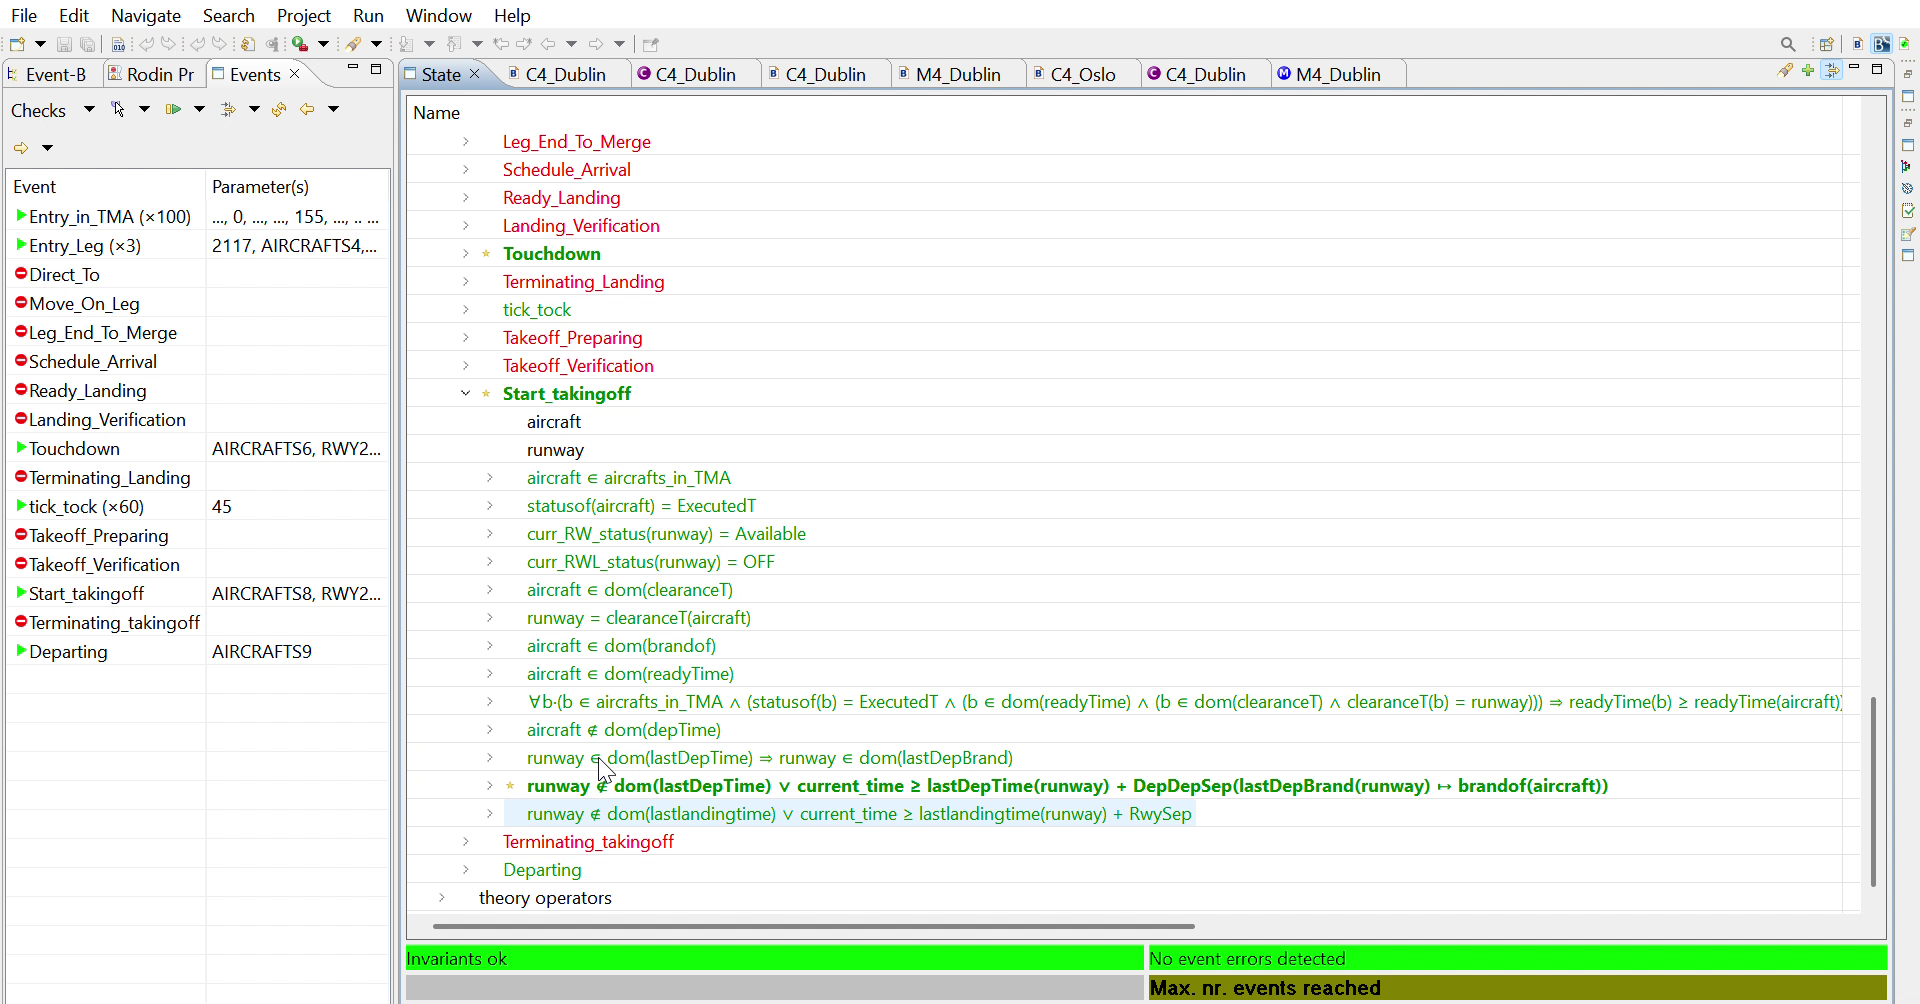
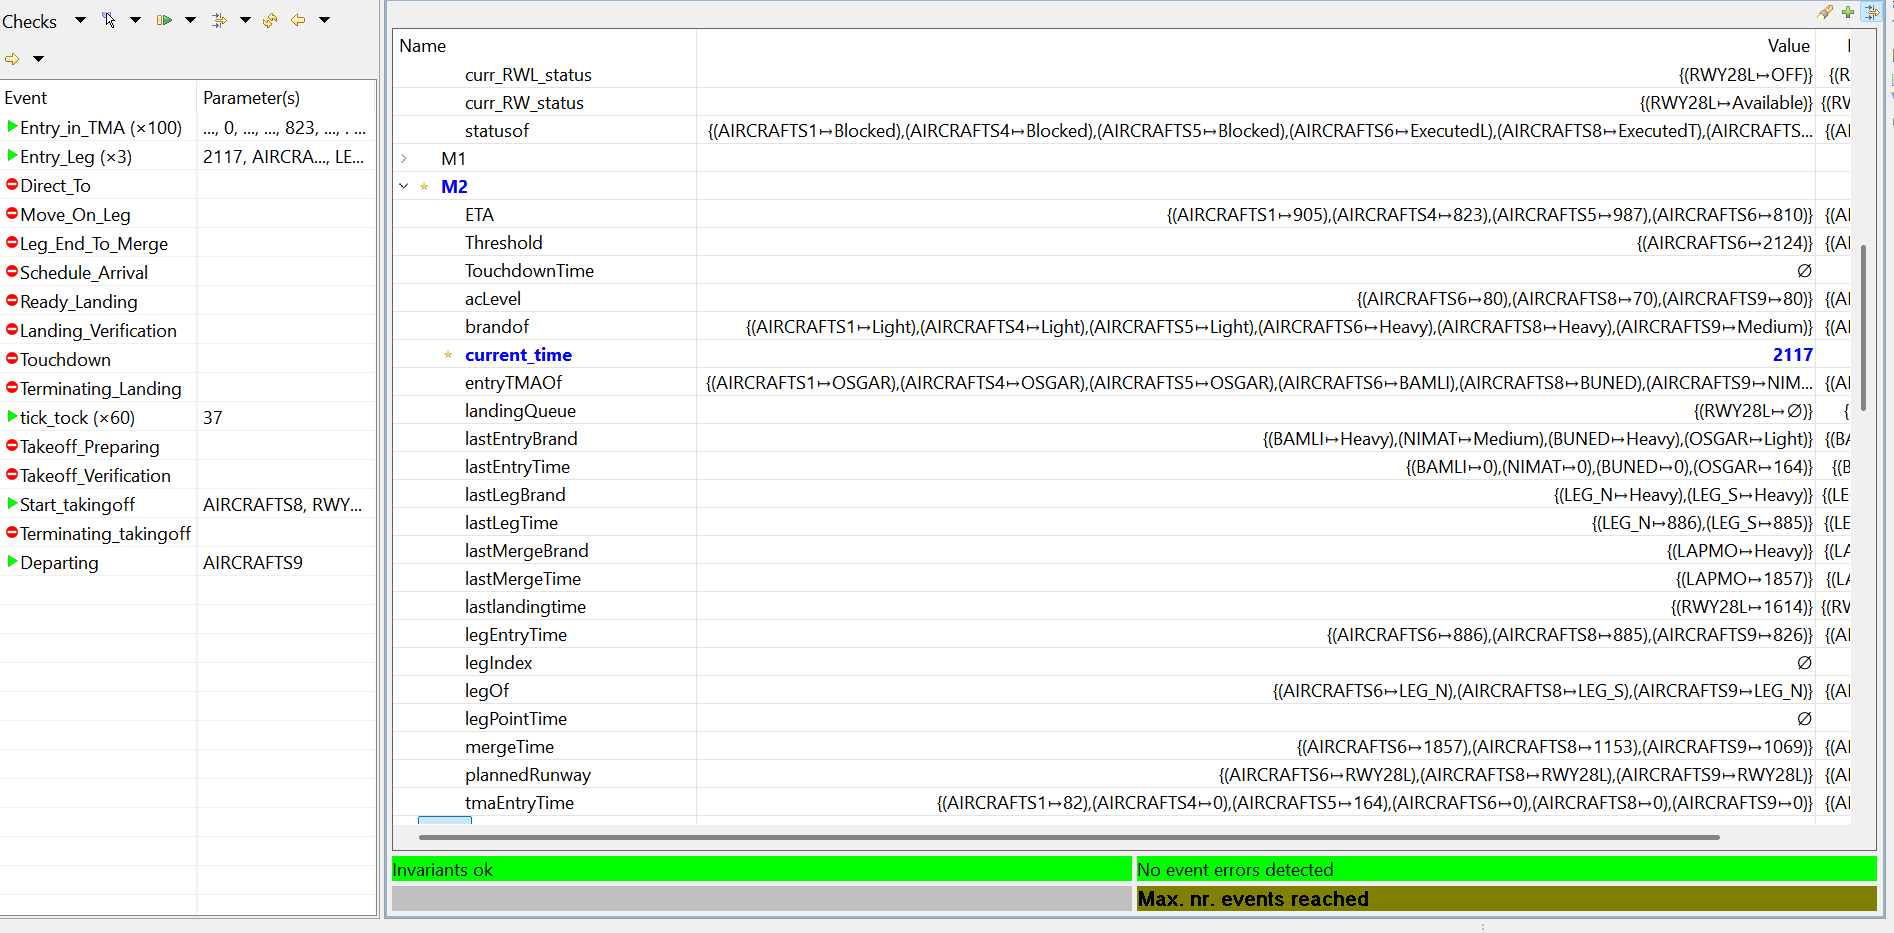
Add detailed captures for CS5 second order and CS6

Changed region(s): [[0.0, 0.0, 1.0, 1.0]]

diff --git a/scenarios/README.md b/scenarios/README.md
@@ -14,7 +14,7 @@ Each scenario animates `M4_Dublin` with ProB on the data of `C4_Dublin` and reac
 ## Contents
 
 - `captures/`: the ProB screenshots used as figures in the paper (`S_CSn_*.png`; red icon = disabled event, green triangle = enabled event). `S_CS1.png` is the zoomed version with the variables of the three aircraft circled.
-- `captures/detail/`: detailed ProB screenshots (variables and guards) for each case: `CS1_initial_state`, `CS2_DirectTo_guard_refused` and `CS2_after_DirectTo_mergeTime`, `CS3_Touchdown_guard_refused` and `CS3_Touchdown_enabled_1523`, `CS4_after_Touchdown`, `CS5_Touchdown_guard_refused_2177` and `CS5_Touchdown_enabled_2237`, `CS6_Start_takingoff_refused_2057` and `CS6_Start_takingoff_enabled_2117` (the two CS6 captures are frames taken from `videos/CS6.mp4`'s source recording).
+- `captures/detail/`: detailed ProB screenshots (variables and guards) for each case: `CS1_initial_state`, `CS2_DirectTo_guard_refused` and `CS2_after_DirectTo_mergeTime`, `CS3_Touchdown_guard_refused` and `CS3_Touchdown_enabled_1523`, `CS4_after_Touchdown`, `CS5_Touchdown_guard_refused_2177` and `CS5_Touchdown_enabled_2237`, `CS5_Start_takingoff_refused_2374` and `CS5_Start_takingoff_enabled_2400`, `CS6_Start_takingoff_refused_2057` (failing `DepDepSep` guard) and `CS6_Start_takingoff_enabled_2117`.
 - `videos/`: ProB animations recorded directly in Rodin (sped up between events, captions give the event, the predicate and the model time).
   - `CS1_CS2.mp4`: CS1 (three Light aircraft entering through OSGAR) then CS2 (`Direct_To` of A6 refused, then accepted).
   - `CS3_CS4.mp4`: CS3 (`Touchdown` refused then enabled after the 60 s gap) and CS4 (runway status and lights change together).
